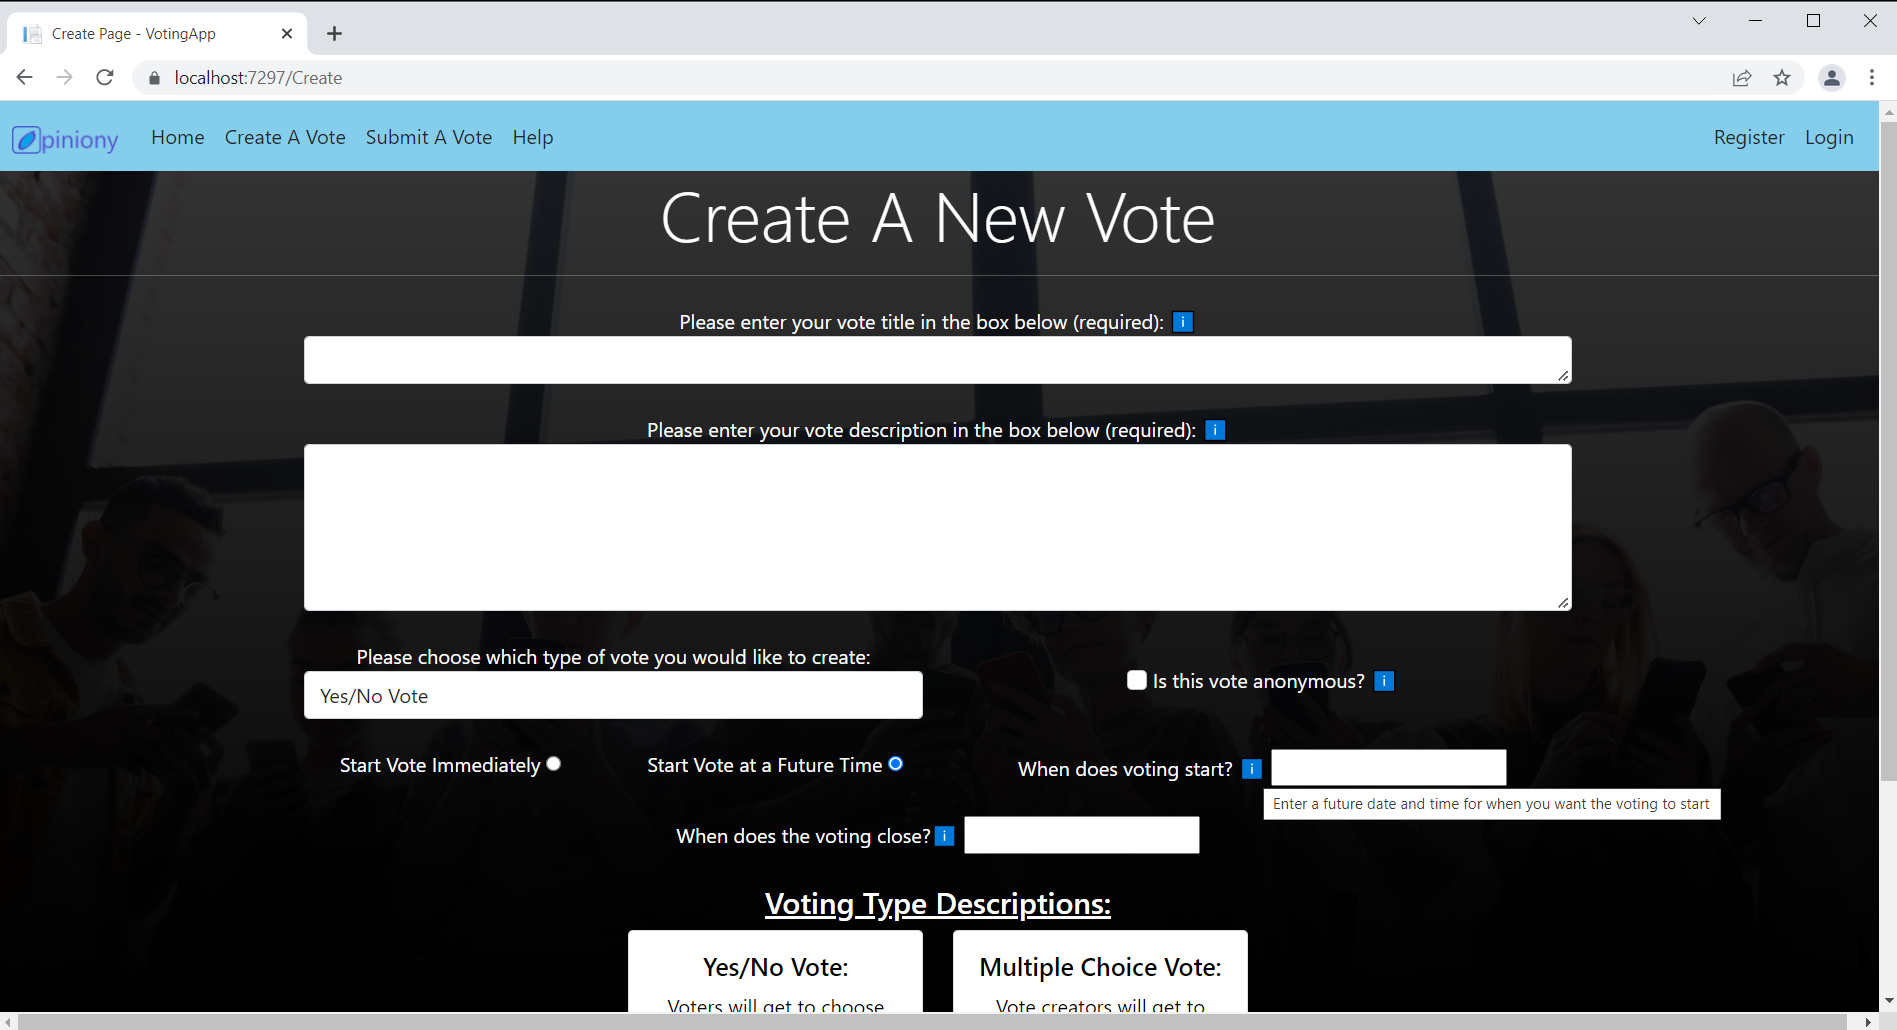
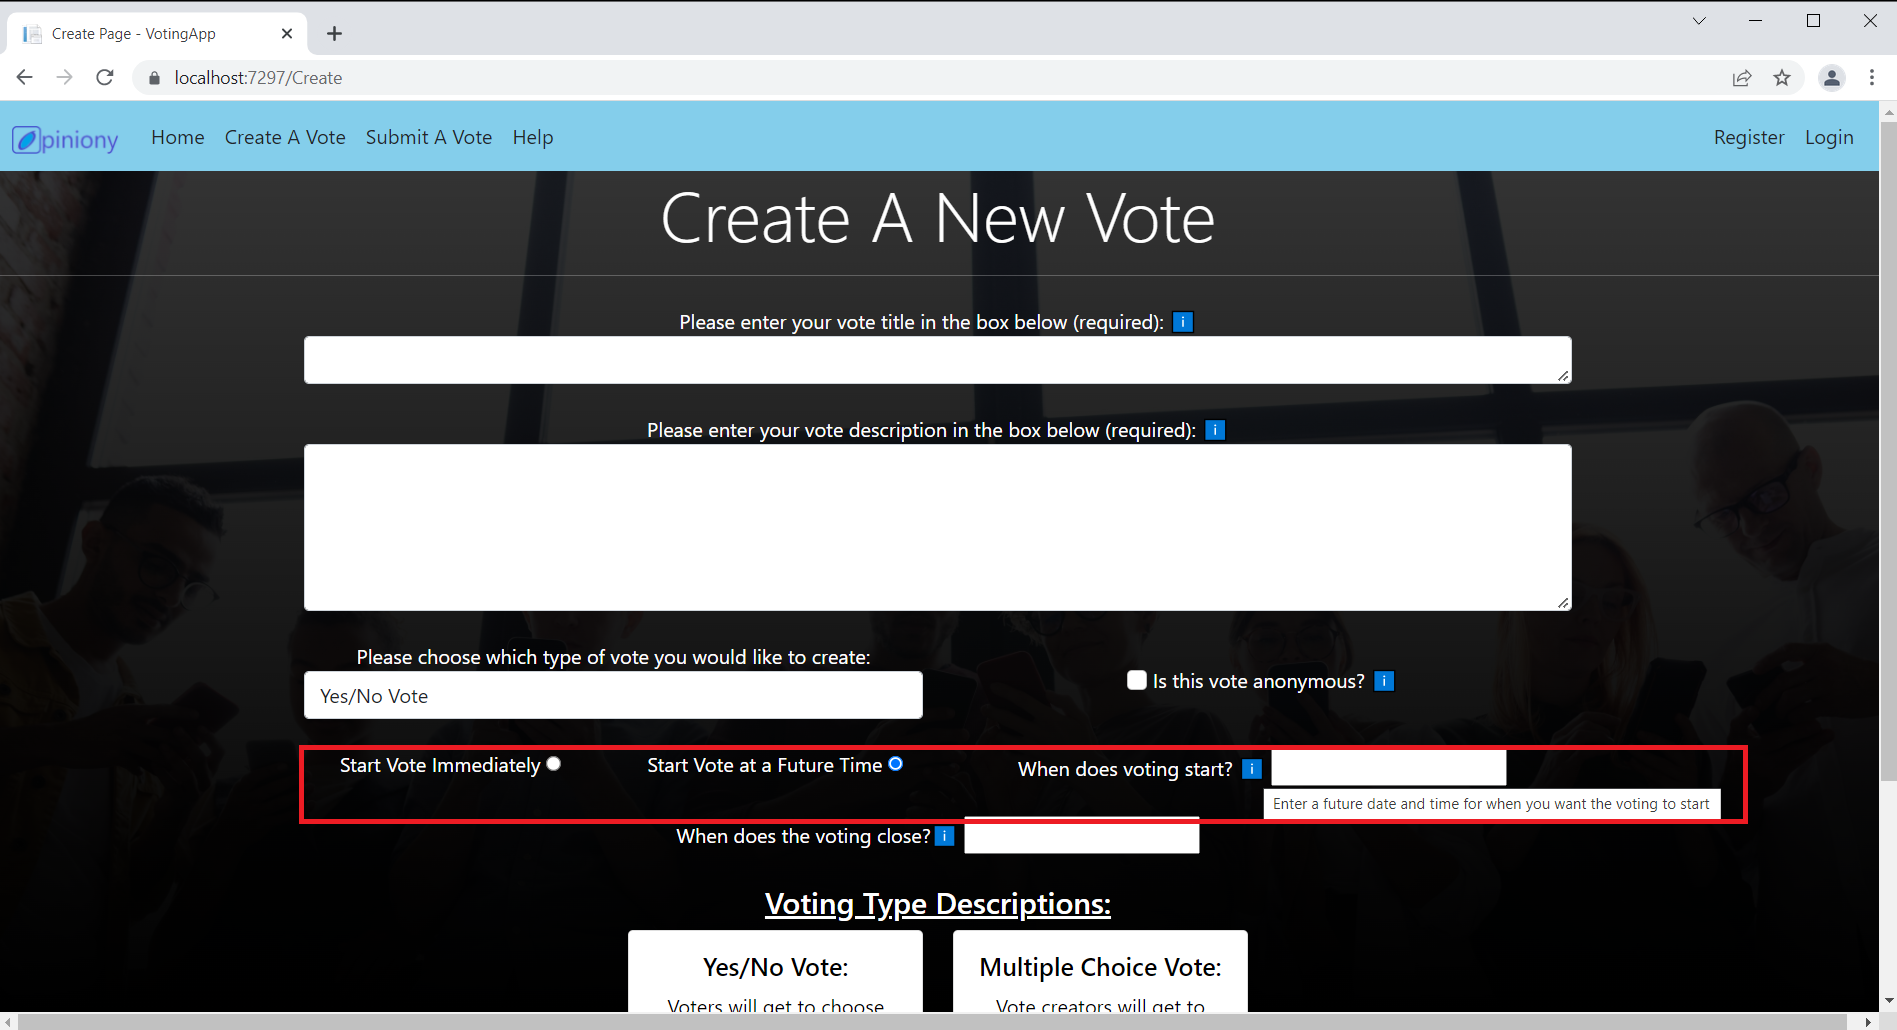
modify md file to show mockups modify mockups to highlight added fields

Changed region(s): [[0.1555, 0.7767, 0.9331, 0.8078], [0.1555, 0.7146, 0.9331, 0.7456]]

diff --git a/docs/ProjectManagement/UserStories/VA86_Create_Vote_Delayed_Vote_Option.md b/docs/ProjectManagement/UserStories/VA86_Create_Vote_Delayed_Vote_Option.md
@@ -1,5 +1,4 @@
 # VA-86
-<hr>
 
 ## Title
 
@@ -75,7 +74,12 @@ VA-86-create-delayed-vote
 
 ## Modeling and Other Documents
 
-Create A Vote mockup: [Create A Vote Page](CreateVoteMockup.png "Mockup of the Create A Vote page with delayed vote fields")
+Create A Vote mockups: 
+
+![Start Immediate Vote Mockup](https://github.com/vincenowell4/KSV-Software/blob/dev/docs/ProjectManagement/UserStories/VA86-StartVoteImmediatelyMockup.png)
+
+![Start Future Vote Mockup](https://github.com/vincenowell4/KSV-Software/blob/dev/docs/ProjectManagement/UserStories/VA86-StartVoteFutureMockup.png)
+
 
 ## Tasks
 1. Create new datetime field in CreatedVote table: VoteStartDateTime
